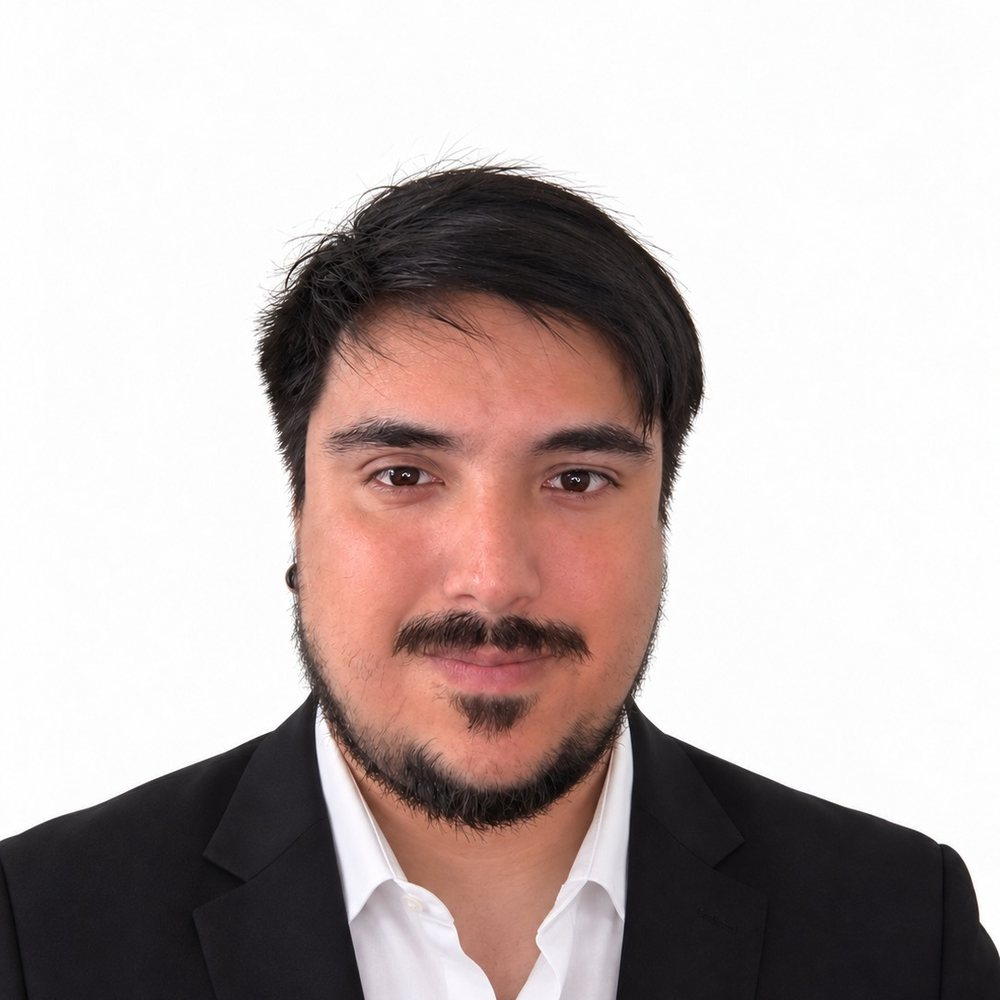
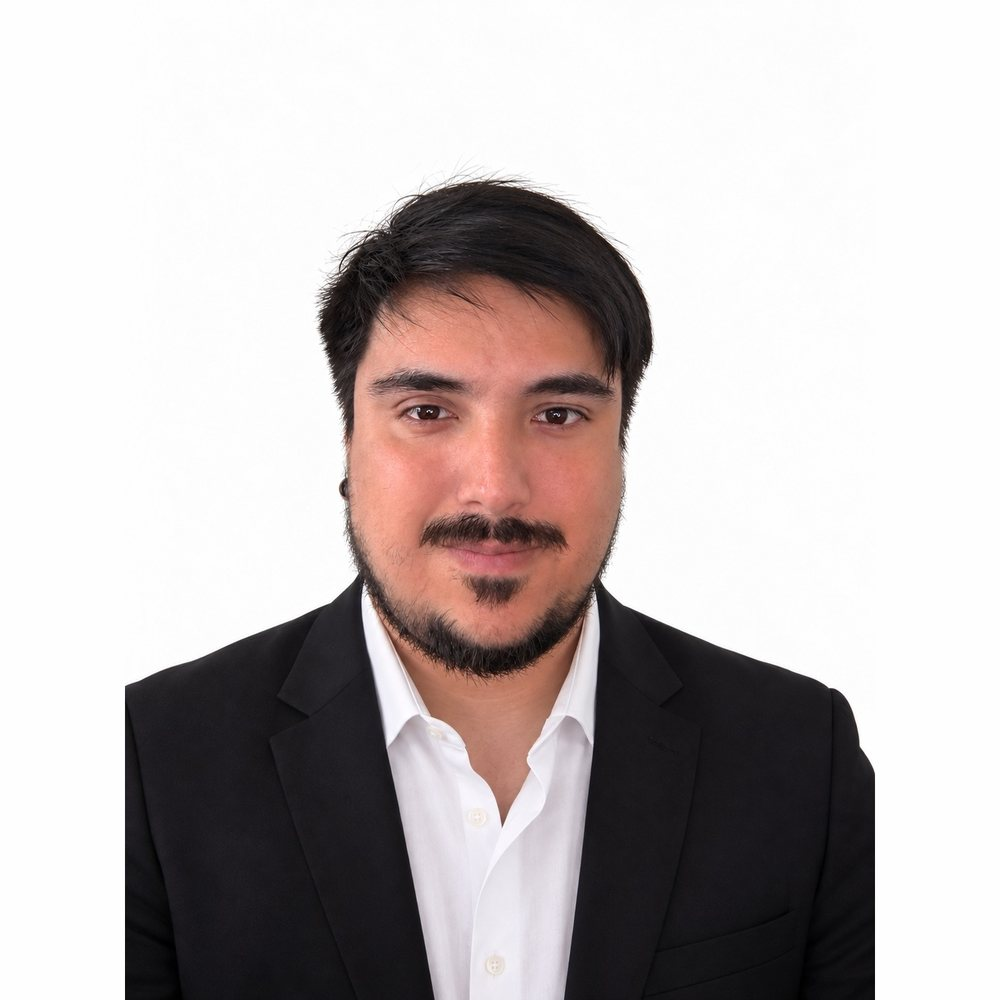
la foto de diego con el mismo encuadre que la de camila

diff --git a/src/data.ts b/src/data.ts
@@ -114,7 +114,7 @@ export const team = [
     role: "Socio",
     initials: "DS",
     photo: diegoFoto,
-    pos: "50% 50%",
+    pos: "50% 45%",
     zoom: 1,
     bio: "Abogado de la Universidad Alberto Hurtado. Postítulo en Derecho Administrativo y Gestión Pública. Profesor asistente en la FEN de la Universidad de Chile. Experiencia en seguros, responsabilidad y daños, litigación civil, consumidor, recupero y gestión de carteras judiciales.",
     phone: "+56 9 7865 0792",
